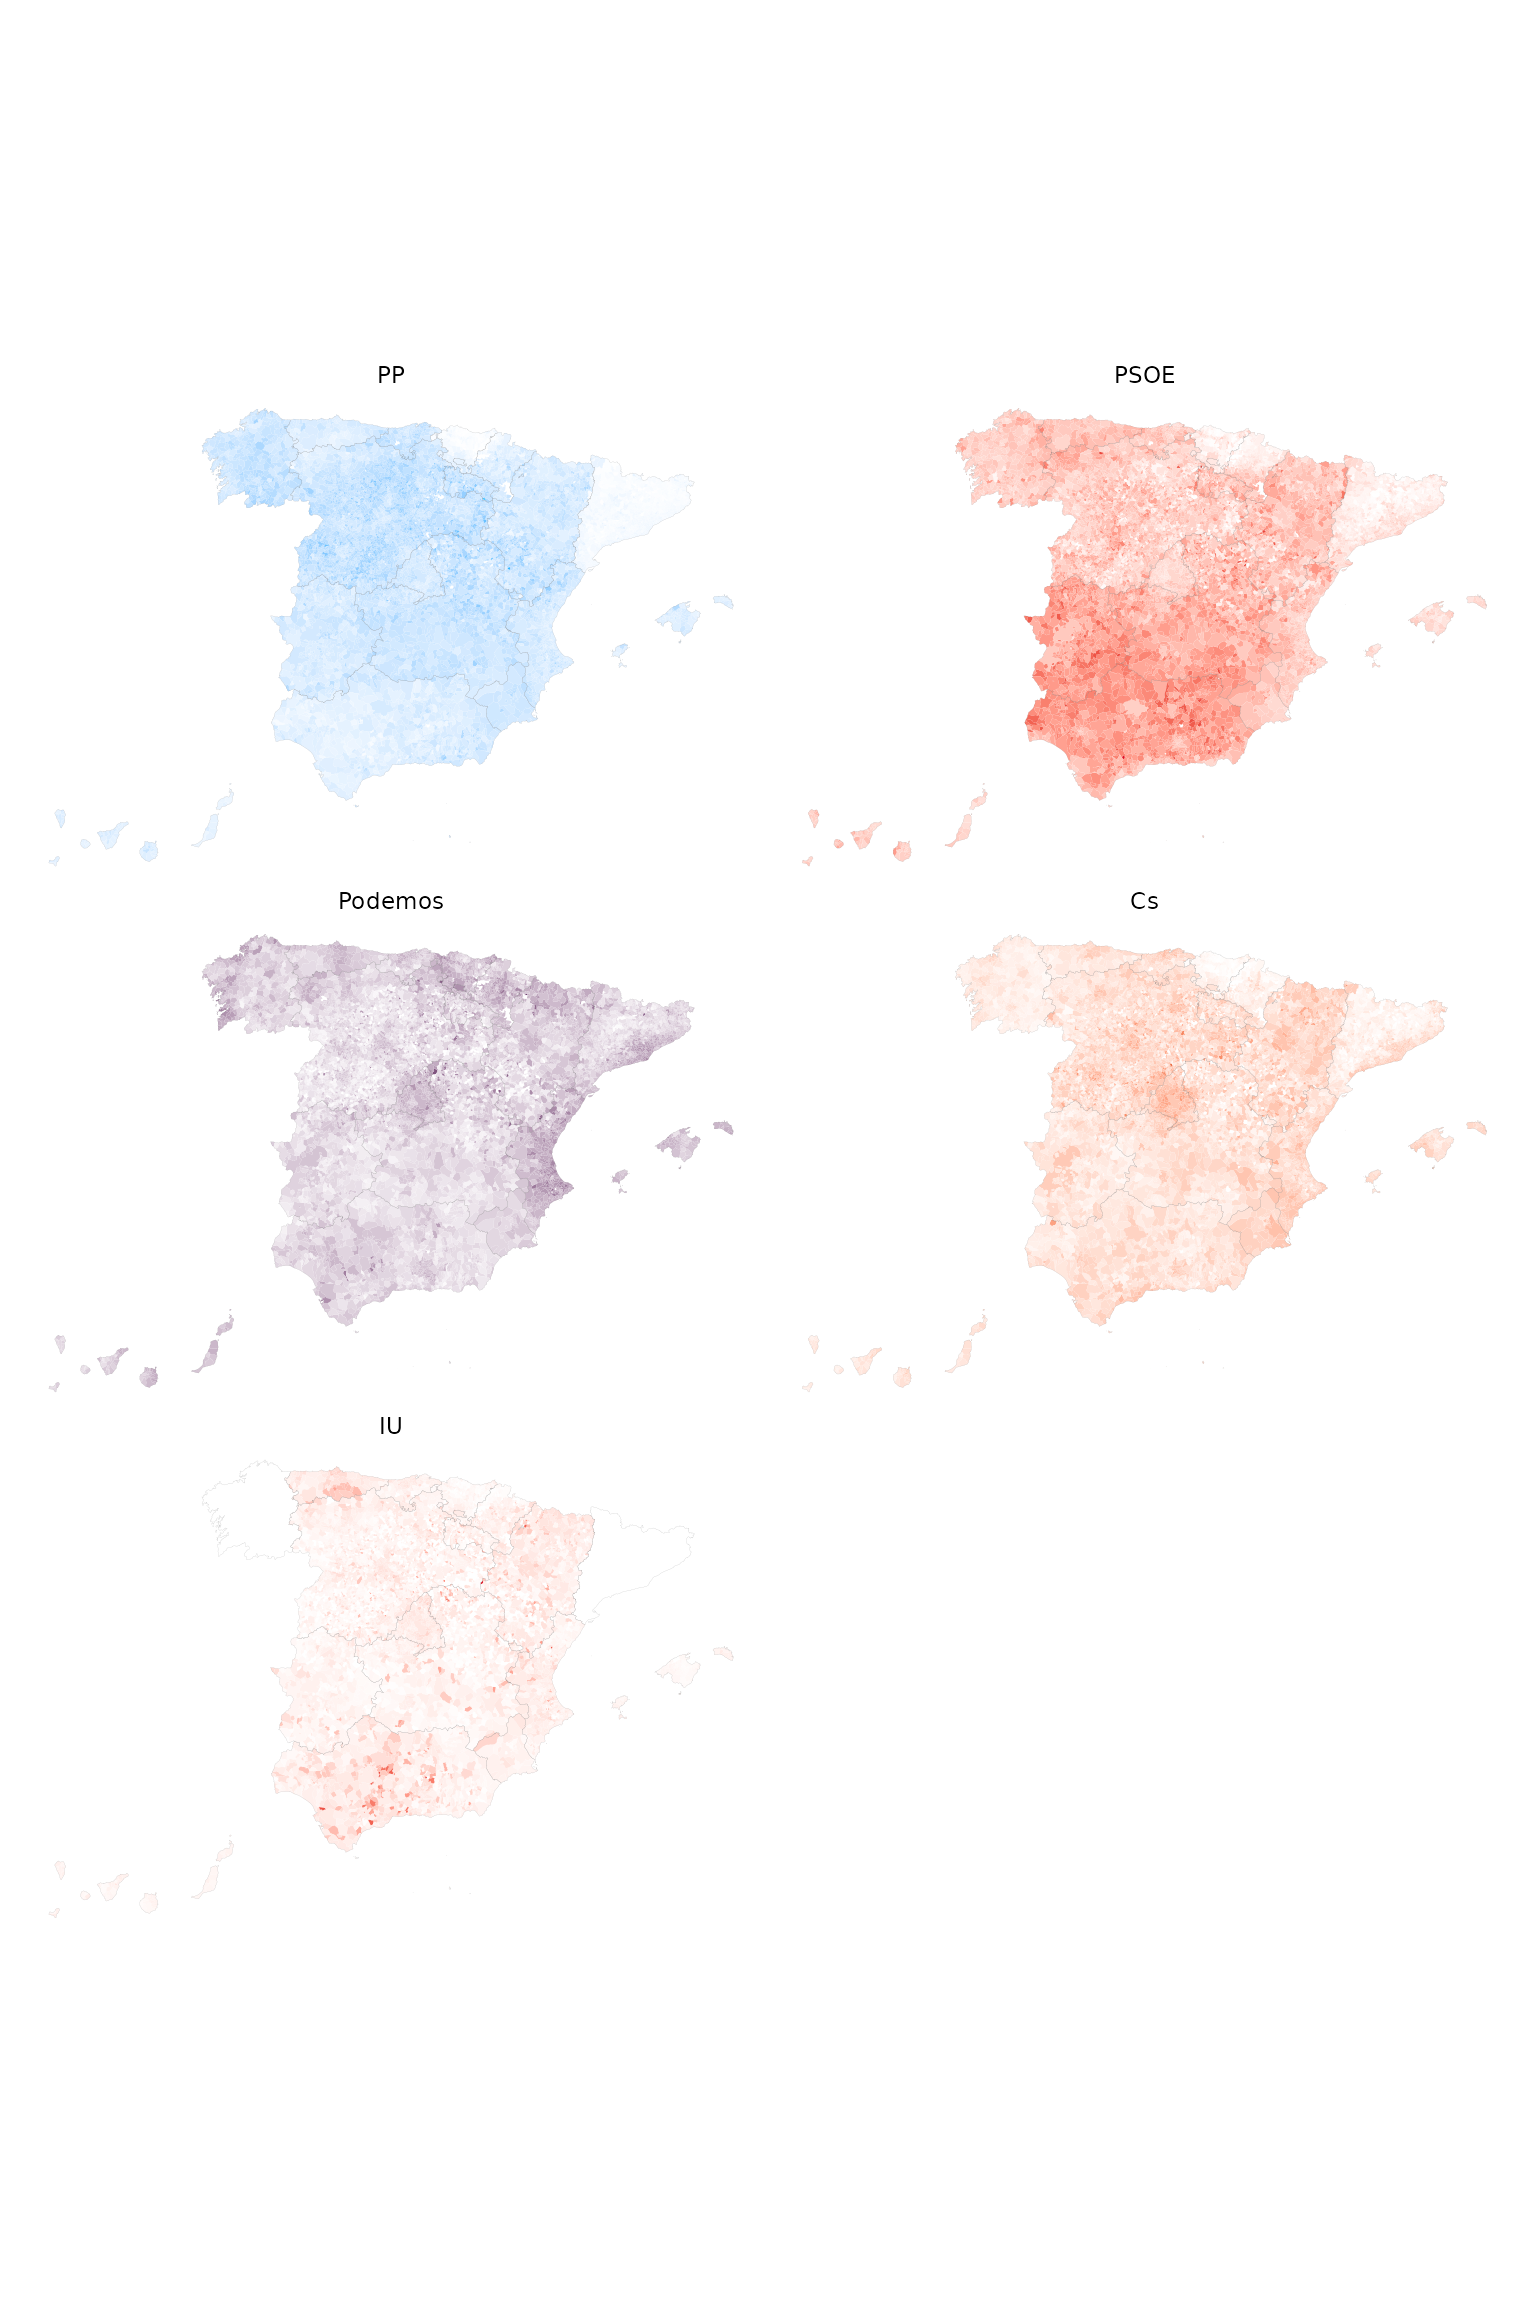
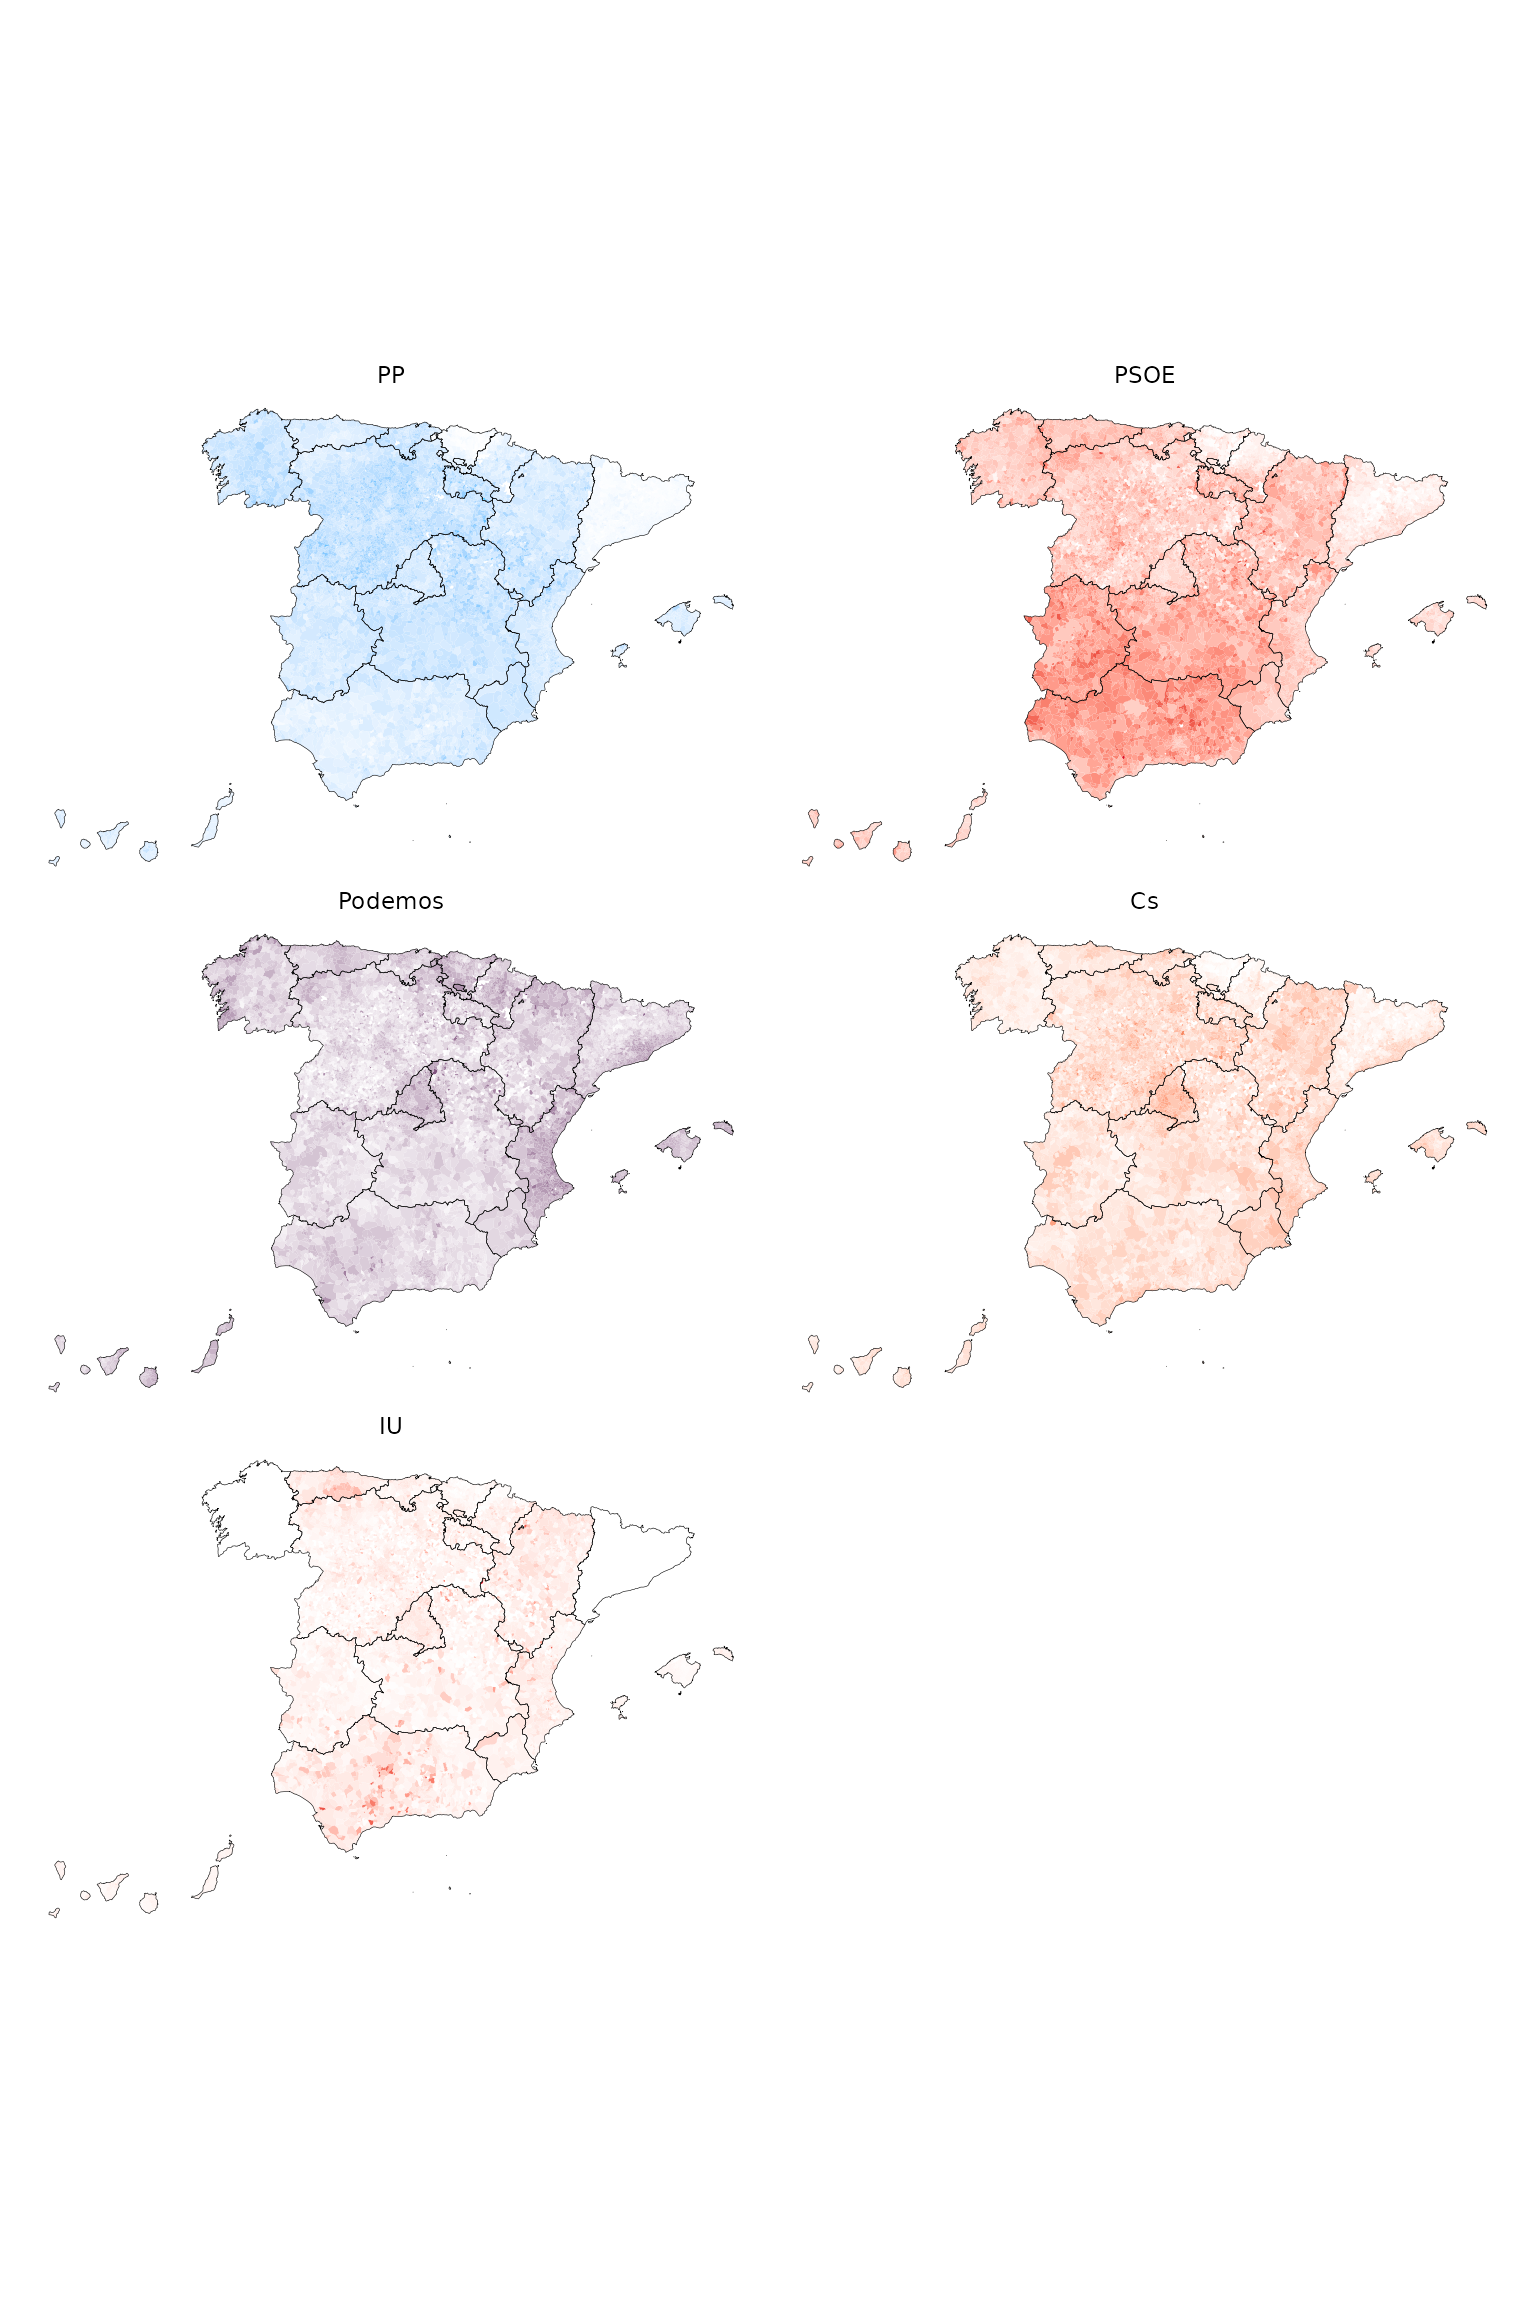
cli-147-532

diff --git a/index.html b/index.html
@@ -100,10 +100,9 @@
 
 <!-- badges: end -->
 <p><a href="https://ropenspain.github.io/infoelectoral/" class="external-link">infoelectoral</a> is a R library that helps retrieve official electoral results for Spain from the <a href="https://infoelectoral.interior.gob.es/opencms/es/inicio/" class="external-link">Ministry of the Interior</a>. It allows you to download the results of general, european and municipal elections of any year at the polling station and municipality level.</p>
-</div>
-<div class="section level1">
-<h1 id="installation">Installation<a class="anchor" aria-label="anchor" href="#installation"></a>
-</h1>
+<div class="section level2">
+<h2 id="installation">Installation<a class="anchor" aria-label="anchor" href="#installation"></a>
+</h2>
 <div class="sourceCode" id="cb1"><pre class="downlit sourceCode r">
 <code class="sourceCode R"><span><span class="co"># To install the latest stable version from CRAN:</span></span>
 <span><span class="fu"><a href="https://rdrr.io/r/utils/install.packages.html" class="external-link">install.packages</a></span><span class="op">(</span><span class="st">"infoelectoral"</span><span class="op">)</span></span>
@@ -111,9 +110,9 @@
 <span><span class="co"># To install the development version:</span></span>
 <span><span class="fu">devtools</span><span class="fu">::</span><span class="fu">install_github</span><span class="op">(</span><span class="st">"ropenspain/infoelectoral"</span><span class="op">)</span></span></code></pre></div>
 </div>
-<div class="section level1">
-<h1 id="overview">Overview<a class="anchor" aria-label="anchor" href="#overview"></a>
-</h1>
+<div class="section level2">
+<h2 id="overview">Overview<a class="anchor" aria-label="anchor" href="#overview"></a>
+</h2>
 <p><a href="https://ropenspain.github.io/infoelectoral/" class="external-link">infoelectoral</a> has four functions:</p>
 <ul>
 <li>
@@ -127,23 +126,23 @@
 </ul>
 <p>The package also includes some <a href="https://ropenspain.github.io/infoelectoral/reference/index.html#datasets" class="external-link">datasets</a> with the official names of the territorial units and the election dates.</p>
 </div>
-<div class="section level1">
-<h1 id="basic-usage">Basic usage<a class="anchor" aria-label="anchor" href="#basic-usage"></a>
-</h1>
+<div class="section level2">
+<h2 id="basic-usage">Basic usage<a class="anchor" aria-label="anchor" href="#basic-usage"></a>
+</h2>
 <div class="sourceCode" id="cb2"><pre class="downlit sourceCode r">
 <code class="sourceCode R"><span><span class="kw"><a href="https://rdrr.io/r/base/library.html" class="external-link">library</a></span><span class="op">(</span><span class="va"><a href="https://github.com/rOpenSpain/infoelectoral" class="external-link">infoelectoral</a></span><span class="op">)</span></span>
 <span><span class="va">df</span> <span class="op">&lt;-</span> <span class="fu"><a href="reference/municipios.html">municipios</a></span><span class="op">(</span>tipo_eleccion <span class="op">=</span> <span class="st">"congreso"</span>, anno <span class="op">=</span> <span class="fl">1982</span>, mes <span class="op">=</span> <span class="st">"10"</span><span class="op">)</span></span></code></pre></div>
 </div>
-<div class="section level1">
-<h1 id="learn-more">Learn more<a class="anchor" aria-label="anchor" href="#learn-more"></a>
-</h1>
+<div class="section level2">
+<h2 id="learn-more">Learn more<a class="anchor" aria-label="anchor" href="#learn-more"></a>
+</h2>
 <p>For a a extended example of how all functions work please check the vignettes:</p>
 <ul>
 <li><a href="https://ropenspain.github.io/infoelectoral/articles/infoelectoral.html" class="external-link">Get started</a></li>
 <li><a href="https://ropenspain.github.io/infoelectoral/articles/municipios.html" class="external-link">Using infoelectoral to make electoral maps</a></li>
 </ul>
 </div>
-
+</div>
   </main><aside class="col-md-3"><div class="links">
 <h2 data-toc-skip>Links</h2>
 <ul class="list-unstyled">

diff --git a/articles/municipios.html b/articles/municipios.html
@@ -137,7 +137,7 @@ Congress of December 2015.</p>
 <span><span class="va">shp_ccaa</span> <span class="op">&lt;-</span> <span class="fu">mapSpain</span><span class="fu">::</span><span class="fu"><a href="https://ropenspain.github.io/mapSpain/reference/esp_get_ccaa.html" class="external-link">esp_get_ccaa</a></span><span class="op">(</span><span class="op">)</span></span></code></pre></div>
 </div>
 <div class="section level2">
-<h2 id="recode-the-party-names">Recode the party names<a class="anchor" aria-label="anchor" href="#recode-the-party-names"></a>
+<h2 id="recode-party-names">Recode party names<a class="anchor" aria-label="anchor" href="#recode-party-names"></a>
 </h2>
 <p>Since most parties have different names throughout the country, you
 will need to recode them to group their results. You can use the column
@@ -195,10 +195,10 @@ percentage of votes.</p>
 <span>  <span class="fu"><a href="https://dplyr.tidyverse.org/reference/select.html" class="external-link">select</a></span><span class="op">(</span><span class="va">codigo_ccaa</span>, <span class="va">LAU_CODE</span>, <span class="va">siglas_r</span>, <span class="va">censo_ine</span>, <span class="va">votos_candidaturas</span>, <span class="va">pct</span><span class="op">)</span></span></code></pre></div>
 </div>
 <div class="section level2">
-<h2 id="join-the-voting-data-to-the-geometries">Join the voting data to the geometries<a class="anchor" aria-label="anchor" href="#join-the-voting-data-to-the-geometries"></a>
+<h2 id="join-data-and-sf-object">Join data and sf object<a class="anchor" aria-label="anchor" href="#join-data-and-sf-object"></a>
 </h2>
 <p>With the <code>LAU_CODE</code> column merge the data with the
-geomtries of the municipalities.</p>
+geometries of the municipalities.</p>
 <div class="sourceCode" id="cb7"><pre class="downlit sourceCode r">
 <code class="sourceCode R"><span><span class="va">shp</span> <span class="op">&lt;-</span> <span class="fu"><a href="https://dplyr.tidyverse.org/reference/mutate-joins.html" class="external-link">left_join</a></span><span class="op">(</span><span class="va">shp</span>, <span class="va">results</span>, by <span class="op">=</span> <span class="st">"LAU_CODE"</span><span class="op">)</span></span></code></pre></div>
 </div>
@@ -229,7 +229,7 @@ each of them with their own color gradient scale and
 <span>      <span class="op">)</span> <span class="op">+</span></span>
 <span>      <span class="fu"><a href="https://ggplot2.tidyverse.org/reference/ggsf.html" class="external-link">geom_sf</a></span><span class="op">(</span></span>
 <span>        data <span class="op">=</span> <span class="va">shp_ccaa</span>, fill <span class="op">=</span> <span class="cn">NA</span>, color <span class="op">=</span> <span class="st">"black"</span>,</span>
-<span>        linewidth <span class="op">=</span> <span class="fl">0.01</span></span>
+<span>        linewidth <span class="op">=</span> <span class="fl">0.1</span></span>
 <span>      <span class="op">)</span> <span class="op">+</span></span>
 <span>      <span class="fu"><a href="https://ggplot2.tidyverse.org/reference/facet_wrap.html" class="external-link">facet_wrap</a></span><span class="op">(</span><span class="op">~</span><span class="va">siglas_r</span><span class="op">)</span> <span class="op">+</span></span>
 <span>      <span class="fu"><a href="https://ggplot2.tidyverse.org/reference/scale_gradient.html" class="external-link">scale_fill_gradient</a></span><span class="op">(</span></span>
